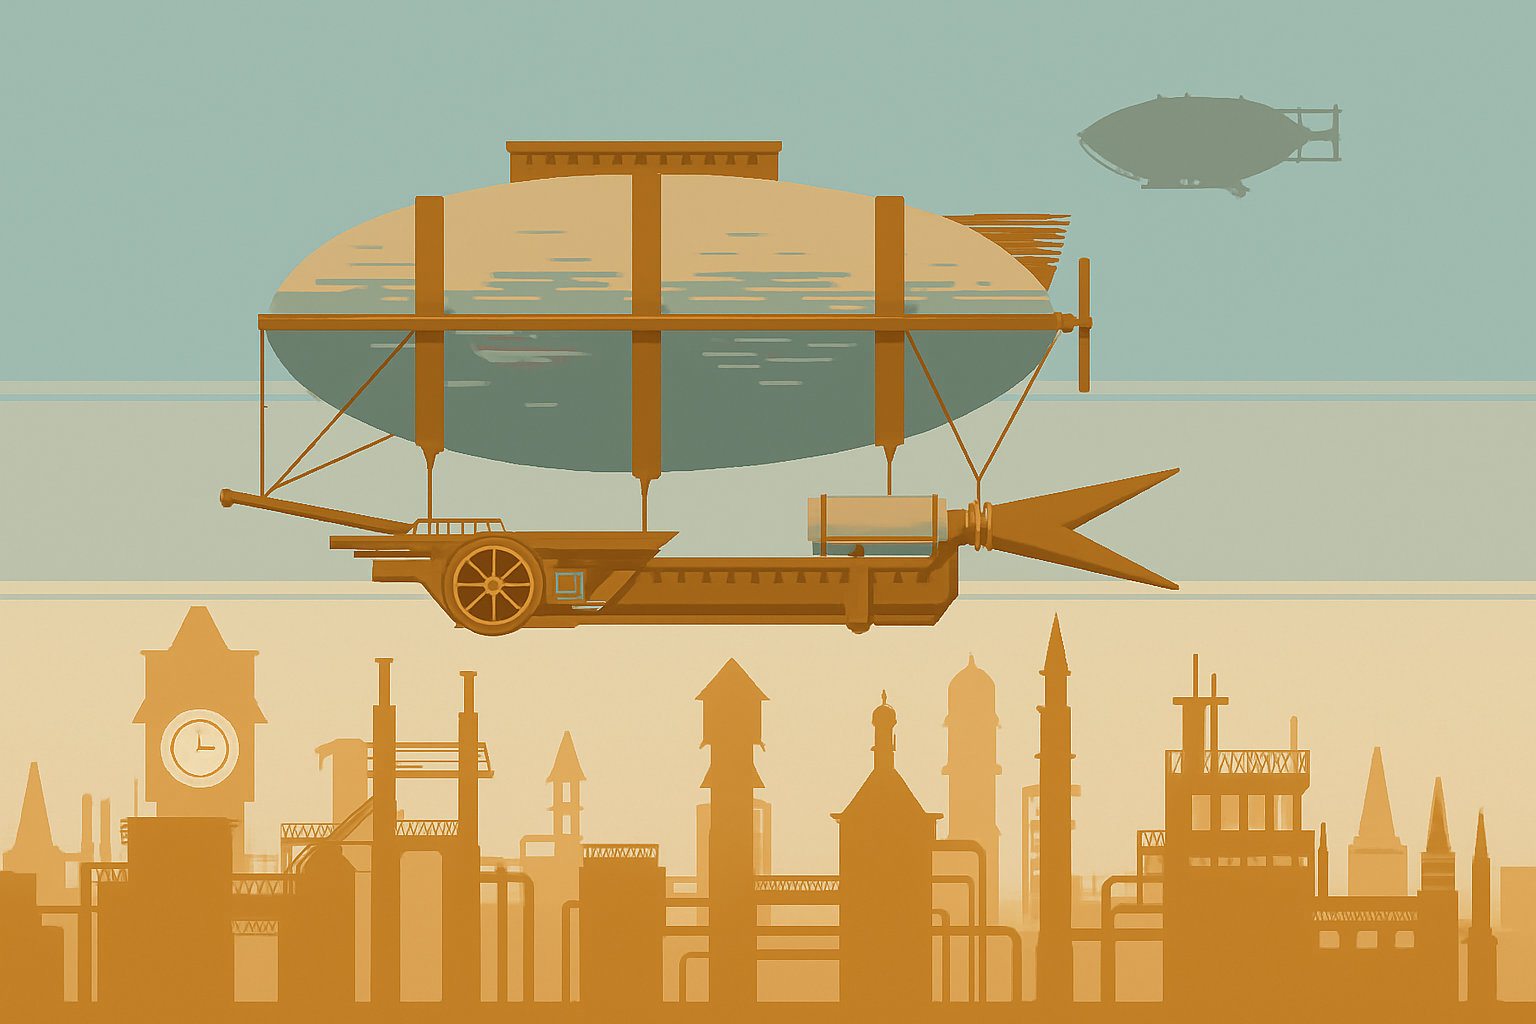
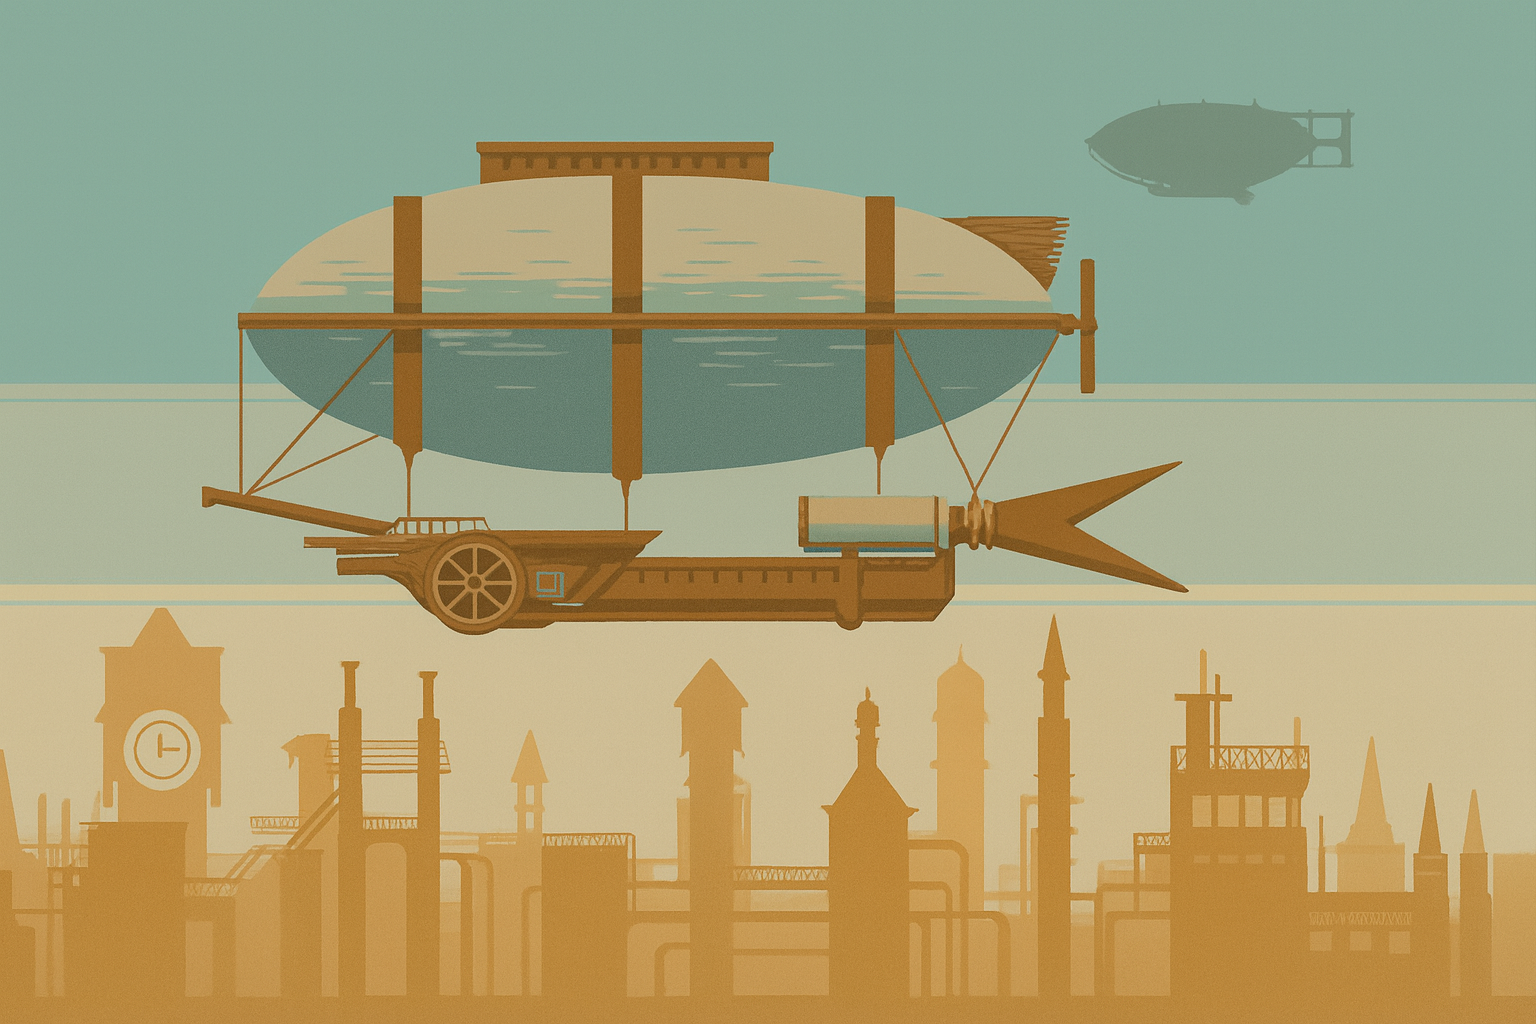
feat(web): theme configuration completed

diff --git a/client/src/app/services/theme/theme.service.ts b/client/src/app/services/theme/theme.service.ts
@@ -27,43 +27,41 @@ export class ThemeService {
     const t = this.cache;
     const C = t.colors, S = t.selectors, I = t.images;
     const scope = 'app-root.theme-light';
-    const BTN = `:is(.button, .btn, button, [role="button"], input[type="button"], input[type="submit"], a.button)`;
-    const PAGES = `${S.home}, ${S.create}, ${S.character}, ${S.waiting}, ${S.game}, ${S.admin}, ${S.edition}`;
-
+    S.buttons_all = `:is(
+      .button, .btn, button, [role="button"],
+      input[type="button"], input[type="submit"], a.button
+    ):not(
+      .unlocked,
+      .locked,
+      .login-button,
+      .sign-up-button,
+      .modify-button,
+      .delete-button,
+      .player_stats,
+      .profile-button,
+      .create-player-button,
+      .no-theme
+    )`;
     const css = `
       ${scope} ${S.home}{background:url('${this.asset(I.home_bg)}') center/cover no-repeat fixed !important; min-height:100vh !important;}
-      ${scope} ${S.edition}{background:url('${this.asset(I.edition_bg)}') center/cover no-repeat fixed !important; min-height:100vh !important;}
-      ${scope} ${S.create}, ${scope} ${S.character}, ${scope} ${S.waiting}, ${scope} ${S.game}, ${scope} ${S.admin}{
+      ${scope} ${S.edition}{background:url('${this.asset(I.edition_bg)}') center/cover no-repeat fixed !important; }
+      ${scope} ${S.create}, ${scope} ${S.character}, ${scope} ${S.waiting}, ${scope} ${S.game}, ${scope} ${S.admin}, ${scope} ${S.combat_modal}{
         background:url('${this.asset(I.city_bg)}') center/cover no-repeat fixed !important;
-        min-height:100vh !important;
       }
-      ${scope} ${S.create}
       ${scope} ${S.buttons_all}{
-        background:${C.button_bg} !important; border:3px solid ${C.button_border} !important; color:${C.button_text} !important;
+        background: ${C.button_bg} !important;
+        border: 3px solid ${C.button_border} !important;
+        color: ${C.button_text} !important;
+        transition: filter .15s ease, transform .05s ease !important;
       }
       ${scope} ${S.buttons_all}:hover{
         filter: brightness(1.05) !important;
       }
       ${scope} ${S.buttons_all}:active{
         filter: brightness(0.9) !important;
-        transform: translateY(1px); 
-      }
-      ${scope} ${BTN}{
-        background:${C.button_bg} !important;
-        border:3px solid ${C.button_border} !important;
-        color:${C.button_text} !important;
-        transition: filter .15s ease, transform .05s ease !important;
-      }
-      
-      /* états : on augmente la spécificité en préfixant par les conteneurs de page */
-      ${scope} :is(${PAGES}) ${BTN}:hover{
-        filter: brightness(1.05) !important;
-      }
-      ${scope} :is(${PAGES}) ${BTN}:active{
-        filter: brightness(0.88) !important;
         transform: translateY(1px) !important;
       }
-      ${scope} :is(${PAGES}) ${BTN}:focus-visible{
+      ${scope} ${S.buttons_all}:focus-visible{
         outline: 2px solid ${C.button_border} !important;
         outline-offset: 2px !important;
       }
@@ -72,25 +70,15 @@ export class ThemeService {
         background:${C.chat_toggle_bg} !important; border:3px solid ${C.chat_toggle_border} !important; color:${C.button_text} !important;
       }
 
-      ${scope} ${S.player_count_bar}{
+      ${scope} ${S.player_count_bar}, ${scope} ${S.gamemode_bar}{
         background:${C.player_count_bar_bg} !important;
       }
 
-      ${scope} ${S.player_stats}{
-        background:${C.player_stats_bg} !important; border:2px solid ${C.player_stats_border} !important;
-      }
-
-      ${scope} ${S.game_map}, ${scope} ${S.game_code}{
+      ${scope} ${S.game_map}, ${scope} ${S.game_code}, ${scope} ${S.players_list}{
         background:linear-gradient(135deg, ${C.map_grad_from} 30%, ${C.map_grad_to} 100%) !important;
-        border-right:4px solid ${C.map_border_brown} !important;
-        border-left:2px solid ${C.map_border_brown} !important;
-        border-bottom:4px solid ${C.map_border_brown} !important;
       }
 
-      ${scope} ${S.game_info}{
-        background:${C.game_info_bg} !important; border:2px solid ${C.game_info_border_orange} !important;
-      }
-      ${scope} ${S.info_item}{
+      ${scope} ${S.info_item}, ${scope} ${S.inventory_slot}{
         background:${C.info_item_bg} !important;
       }
       `.trim();

diff --git a/client/src/app/components/authentication/authentication.component.html b/client/src/app/components/authentication/authentication.component.html
@@ -32,7 +32,7 @@
                 (customAvatarPreviewChange)="registerCustomAvatarPreview = $event"
             ></app-profile-picture>
         </div>
-        <button type="button" (click)="register()">S'inscrire</button>
+        <button type="button" class="sign-up-button" (click)="register()">S'inscrire</button>
         <div *ngIf="registerMessage" class="message">{{ registerMessage }}</div>
     </div>
     <div class="auth-container auth-login" *ngIf="mode === 'login' || mode === 'both'">
@@ -52,7 +52,7 @@
             (keydown.enter)="login()"
             (input)="onInput($event, 'loginPassword')"
         />
-        <button type="button" (click)="login()">Se connecter</button>
+        <button type="button" class="login-button" (click)="login()">Se connecter</button>
         <div *ngIf="loginMessage" class="message">{{ loginMessage }}</div>
     </div>
 </div>

diff --git a/client/src/app/pages/app/app.component.ts b/client/src/app/pages/app/app.component.ts
@@ -12,7 +12,9 @@ import { ThemeService } from '@app/services/theme/theme.service';
 export class AppComponent {
     @HostBinding('class') themeClass: string = 'theme-dark';
     
-    constructor( private themeService: ThemeService) {}
+    constructor( private readonly themeService: ThemeService) {
+        this.themeService = themeService
+    }
 
     async toggleTheme() {
         const next = this.themeClass === 'theme-dark' ? 'theme-light' : 'theme-dark';

diff --git a/client/src/app/components/account/account.component.html b/client/src/app/components/account/account.component.html
@@ -23,7 +23,7 @@
             </div>
         </div>
         <div class="button-row">
-            <button class="button" (click)="enableEdit()">Modifier</button>
+            <button class="button modify-button" (click)="enableEdit()">Modifier</button>
             <button class="button delete-button" (click)="deleteAccount()">Supprimer le compte</button>
         </div>
     </ng-container>

diff --git a/client/src/app/pages/character-form-page/character-form-page.component.scss b/client/src/app/pages/character-form-page/character-form-page.component.scss
@@ -9,7 +9,6 @@
 }
 .character-selection-container {
     background-image: url('../../../assets/backgrounds/backgroundcombat.png');
-
     color: #f0f0f0;
     display: flex;
     justify-content: space-between;

diff --git a/client/src/app/pages/app/app.component.scss b/client/src/app/pages/app/app.component.scss
@@ -10,8 +10,8 @@ button {
 }
 .toggle-theme-btn {
     position:fixed; 
-    top:12px; 
-    right:62px; 
+    bottom:12px; 
+    right: 12px; 
     z-index:1200;
     width: 44px;
     height: 44px;
